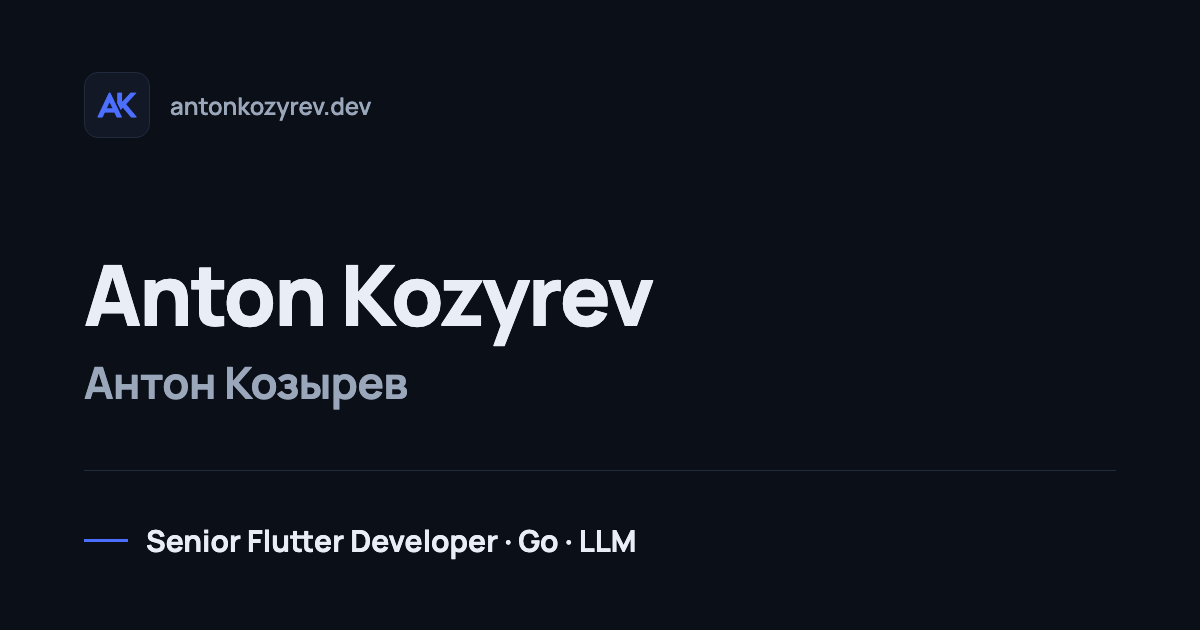
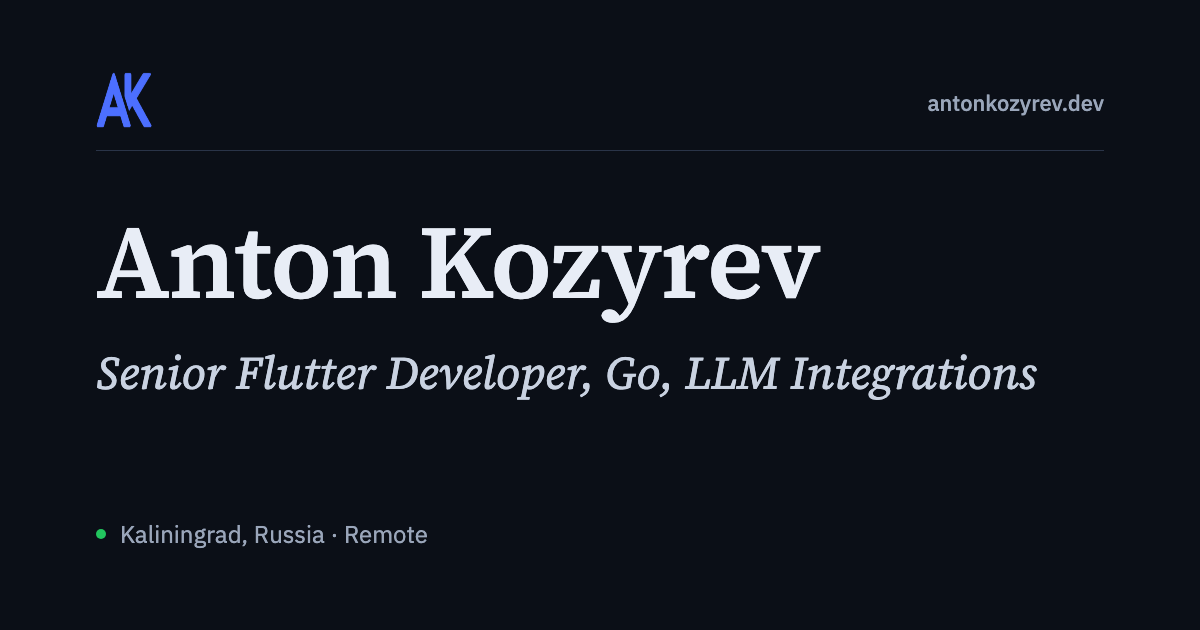
2026-11-13: редизайн B — цифры под ролью обычным текстом; касания ≥ 44 px на страницах заказчиков; OG-картинки EN и RU в Source Serif 4 и IBM Plex Sans (имя, роль, домен)

diff --git a/src/styles/client.css b/src/styles/client.css
@@ -124,7 +124,7 @@
 
 /* full-spectrum additions */
 .c-proof { display: flex; flex-wrap: wrap; gap: .3rem .9rem; margin-top: auto !important; padding-top: .5rem; font-family: var(--f-mono); font-size: .78rem; }
-.c-proof a { color: var(--acid); text-decoration: none; border-bottom: 1px dotted rgba(var(--acid-rgb), .5); }
+.c-proof a { color: var(--acid); text-decoration: none; border-bottom: 1px dotted rgba(var(--acid-rgb), .5); display: inline-flex; align-items: center; min-height: 44px; }
 .c-proof a:hover { color: var(--acid-hi); }
 .c-small { margin-top: 1.4rem; color: var(--text); font-weight: 600; }
 .c-small + .c-legal { margin-top: .5rem; }
@@ -211,3 +211,8 @@
 /* Redesign B: no caps labels; step numbers stay — process steps are a real sequence. */
 .c-kind, .c-flow-title { text-transform: none; letter-spacing: 0; font-family: var(--f-text); font-size: .85rem; }
 .client h1, .client h2, .client h3 { font-family: var(--f-head); }
+
+/* Touch targets on phones: every link and button at least 44 px tall (WCAG 2.5.8). */
+@media (max-width: 640px) {
+  .c-proof a, .c-direct a, .c-faq summary, .c-form .btn { min-height: 44px; display: flex; align-items: center; }
+}

diff --git a/src/styles/global.css b/src/styles/global.css
@@ -512,3 +512,6 @@ h3, .card h3, .app h3, .ai h3 { font-family: var(--f-head); font-weight: 600; }
   h1 { font-size: 2.7rem; }
   .section { padding-top: 4rem; }
 }
+
+/* Figures under the lead: plain text, no counter animation. */
+.quiet-stats { margin: .4rem 0 0; color: var(--muted); font: 400 .95rem/1.5 var(--f-text); }
